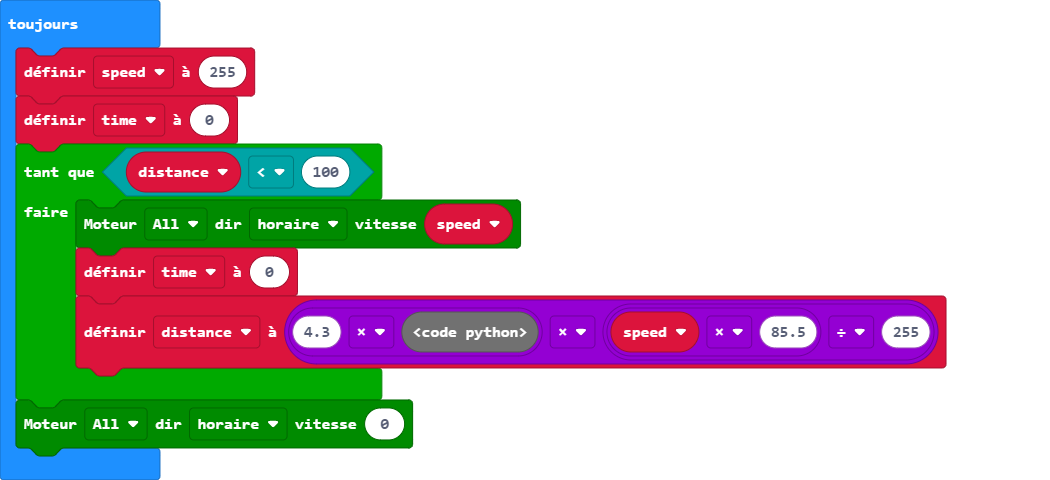
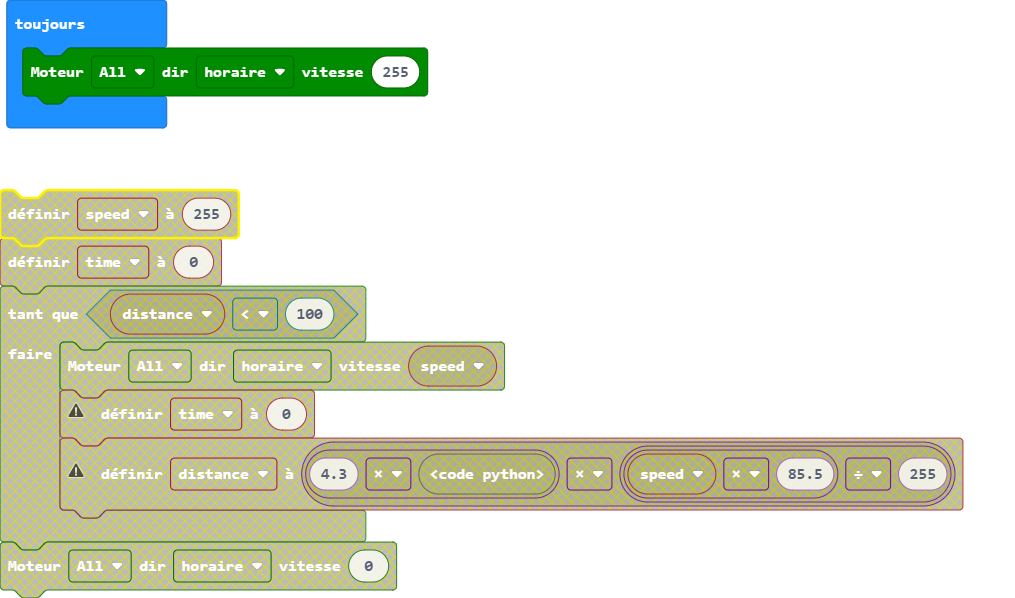
Mise à jour main.blocks, main.ts

diff --git a/main.ts b/main.ts
@@ -1,13 +1,3 @@
-let speed = 0
-let time = 0
-let distance = 0
 basic.forever(function () {
-    speed = 255
-    time = 0
-    while (distance < 100) {
-        maqueen.motorRun(maqueen.Motors.All, maqueen.Dir.CW, speed)
-        time = 0
-        distance = 4.3 * Math.PI * (speed * 85.5 / 255)
-    }
-    maqueen.motorRun(maqueen.Motors.All, maqueen.Dir.CW, 0)
+    maqueen.motorRun(maqueen.Motors.All, maqueen.Dir.CW, 255)
 })
